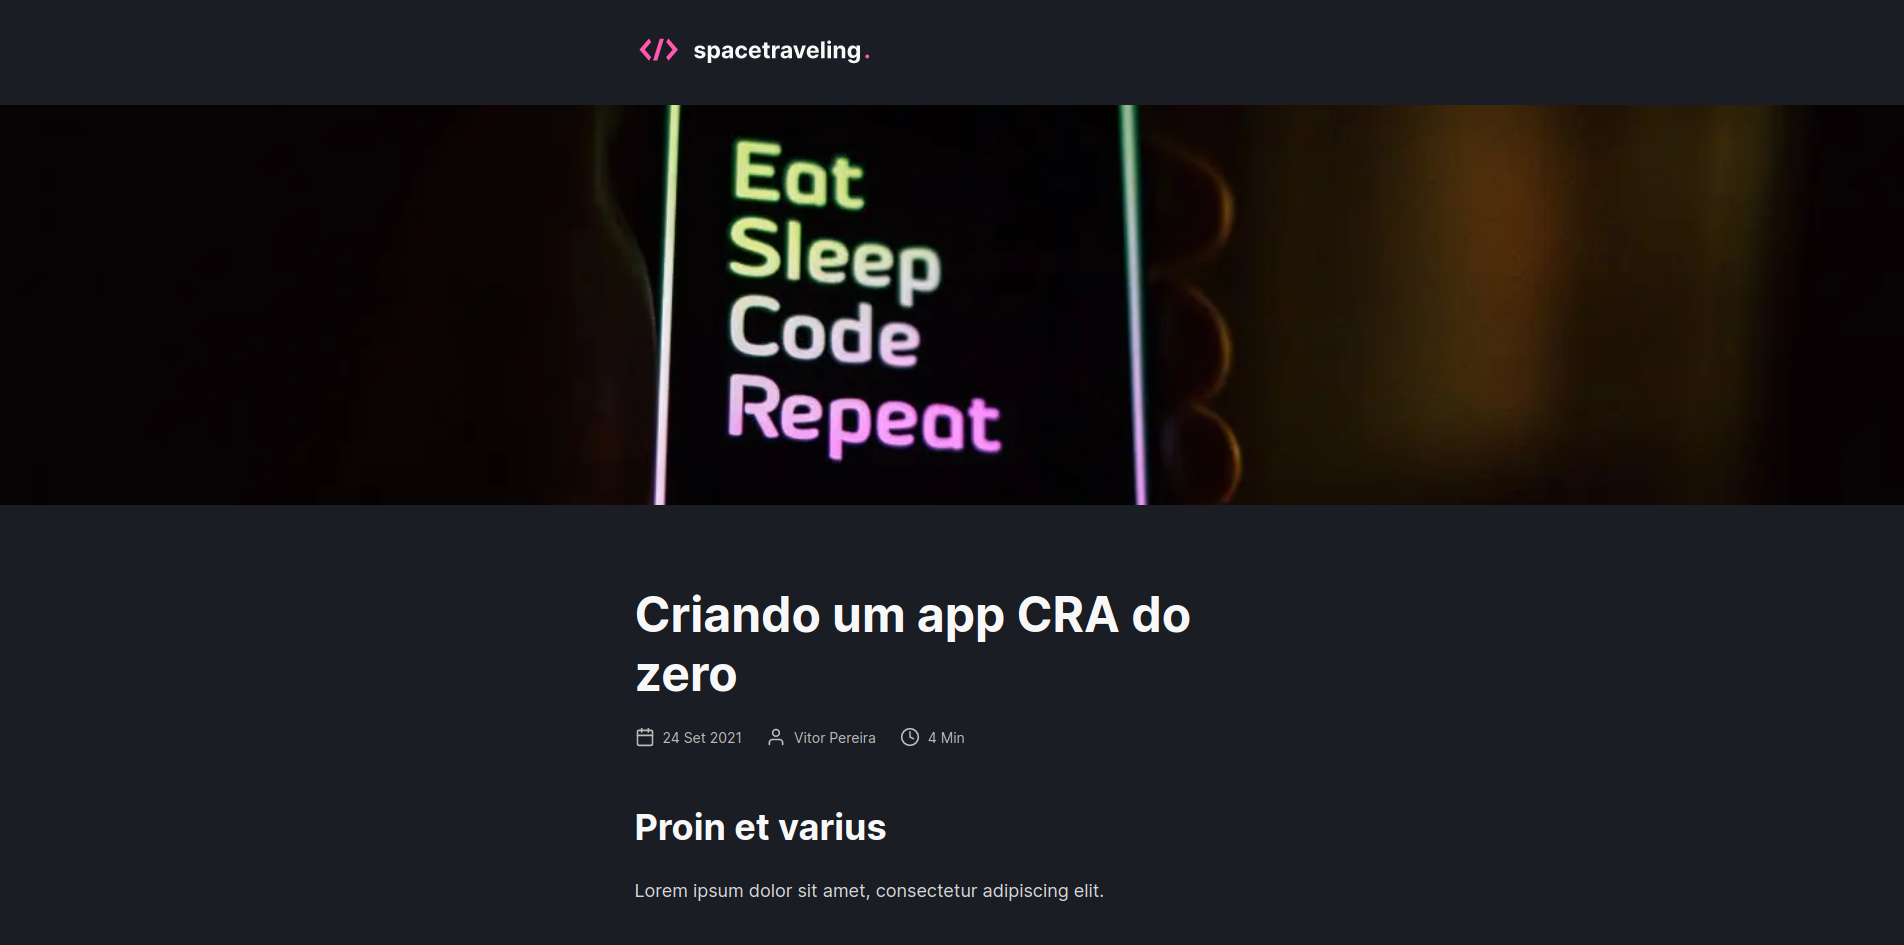
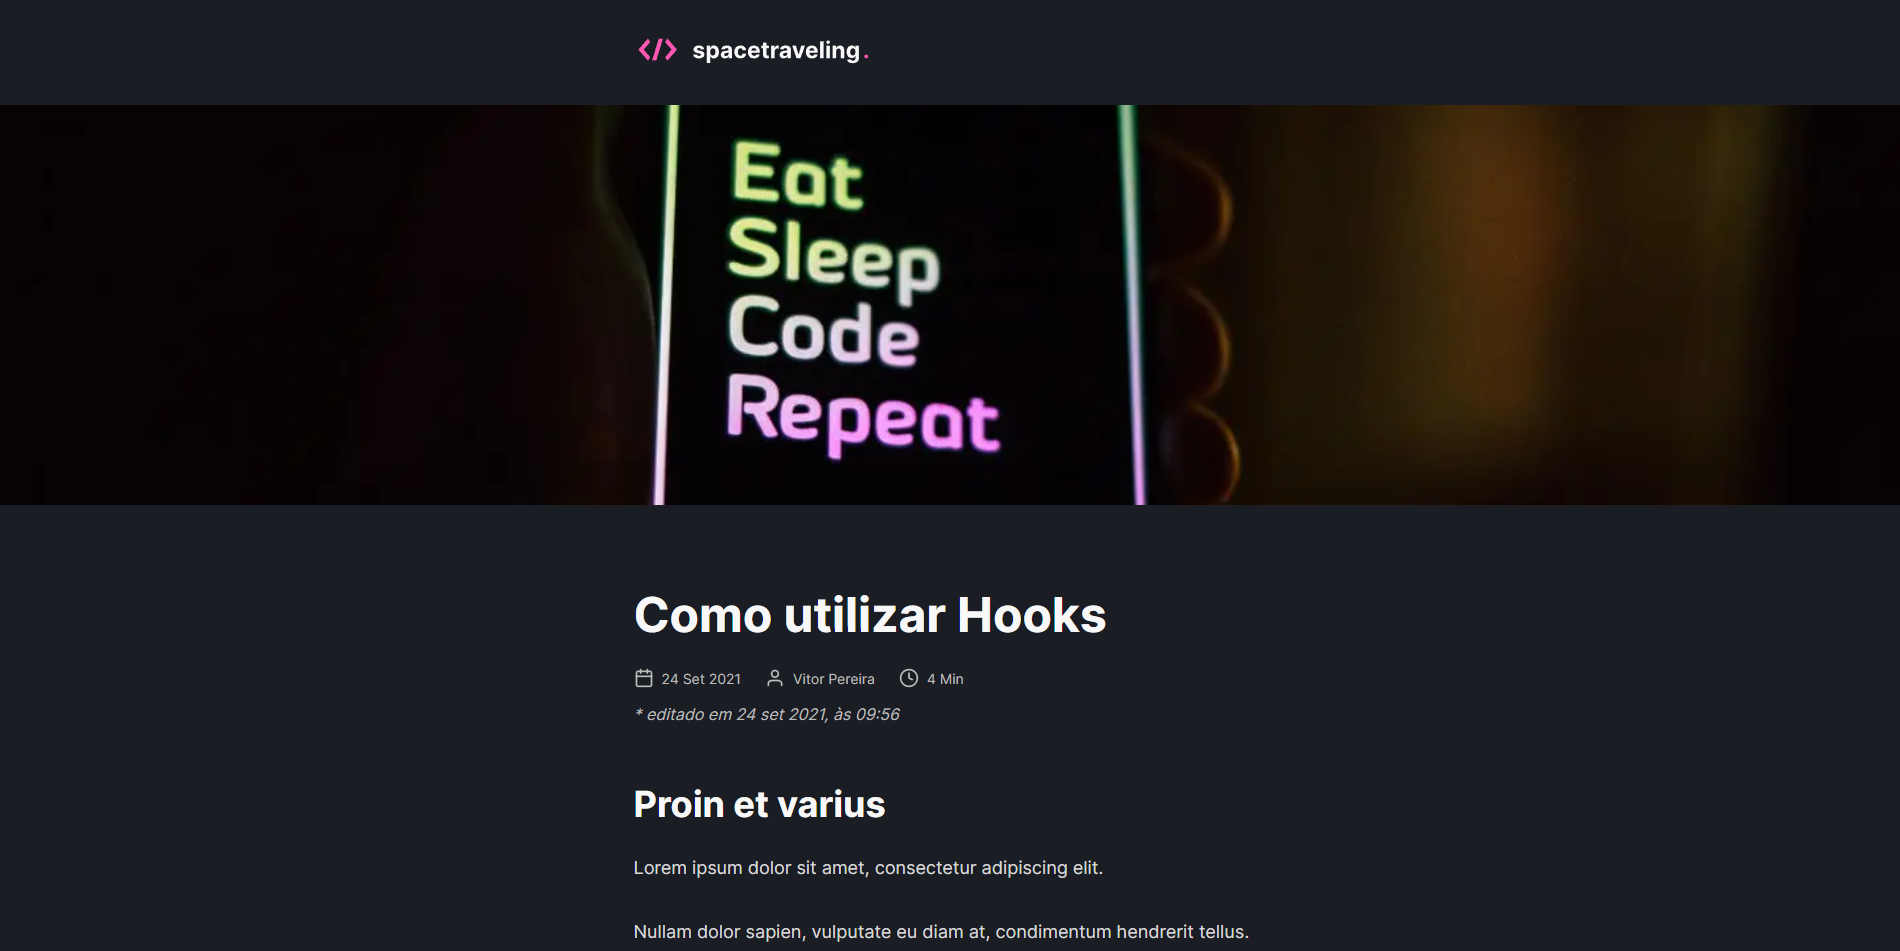
:docs: Add README

diff --git a/README.md b/README.md
@@ -9,10 +9,10 @@
 </p>
 
 <h3 align="center">
-  Desafio 05 - Trilha ReactJS
+  Desafio 06 - Trilha ReactJS
 </h2>
 <p align="center">
-	Resolução do Desafio "Criando um projeto do zero"
+	Resolução do Desafio "Adicionando features ao blog"
 </p>
 
 ## Sobre o desafio
@@ -23,17 +23,16 @@
 
 Nesse desafio, você deverá criar uma aplicação para treinar o que aprendeu até agora no ReactJS
 
-Essa será uma aplicação onde o seu principal objetivo é criar um blog do zero. Você vai receber uma aplicação praticamente em branco que deve consumir os dados do Prismic e ter a interface implementada conforme o layout do Figma. Você terá acesso a diversos arquivos para implementar:
+Essa será uma aplicação onde o seu principal objetivo é adicionar features a um projeto já existente. Utilizaremos como base a solução desenvolvida por você do desafio obrigatório:
 
-- Estilizações global, comun e individuais;
-- Importação de fontes Google;
-- Paginação de posts;
-- Cálculo de tempo estimado de leitura do post;
-- Geração de páginas estáticas com os métodos `getStaticProps` e `getStaticPaths`;
-- Formatação de datas com `date-fns`;
-- Uso de ícones com `react-icons`;
-- Requisições HTTP com `fetch`;
-- Entre outros.
+[Desafio - Criando um projeto do zero](https://github.com/vitorpedeo/desafio-blog-inicial) 
+
+Você deve implementar no projeto as seguintes features:
+
+- Comentários com Utteranc;
+- Preview do documento Prismic;
+- Navegação entre post anterior e próximo;
+- Informação de edição do post.
 
 ## Status do desafio
 
